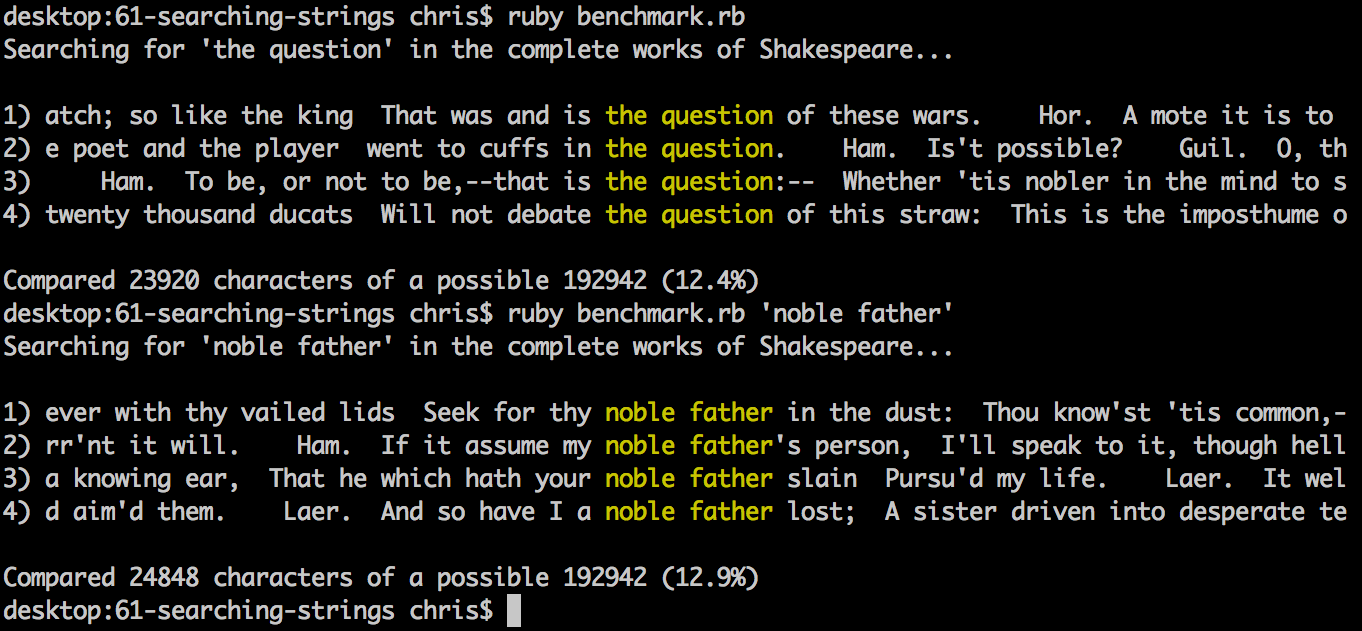
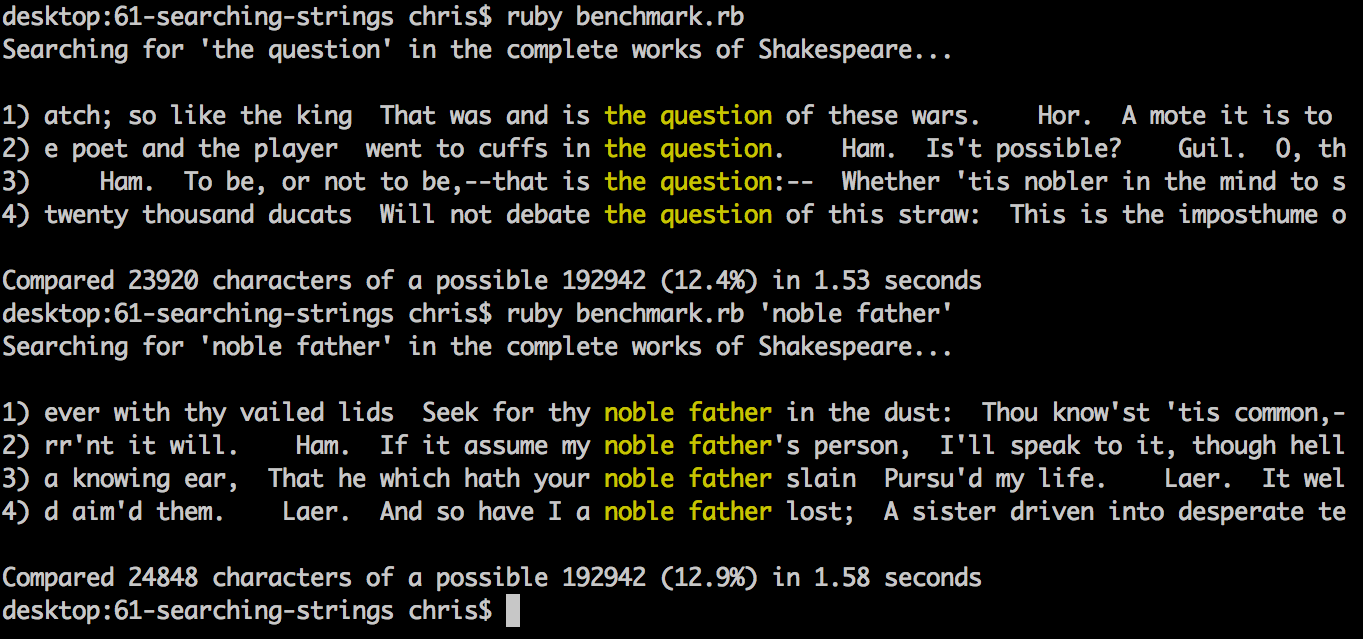
Add the time taken

diff --git a/61-searching-strings/benchmark.rb b/61-searching-strings/benchmark.rb
@@ -1,13 +1,18 @@
 $LOAD_PATH.unshift("lib")
 
 require "searching_strings"
+require "benchmark"
 
 shakespeare = File.read("shakespeare.text")
 pattern = ARGV.first || "the question"
 text = Text.new(shakespeare)
 
 puts "Searching for '#{pattern}' in the complete works of Shakespeare..."
-matches = BoyerMoore.search(text, pattern)
+matches = nil
+
+time_taken = Benchmark.realtime do
+  matches = BoyerMoore.search(text, pattern)
+end
 
 YELLOW = "\e[33m"
 RESET = "\e[0m"
@@ -23,4 +28,5 @@ end
 
 puts "No matches found." if matches.empty?
 print "\nCompared #{text.number_of_fetches} characters of a possible #{text.length}"
-puts " (#{(text.number_of_fetches.to_f / text.length * 100).round(1)}%)"
+print " (#{(text.number_of_fetches.to_f / text.length * 100).round(1)}%)"
+puts " in #{time_taken.round(2)} seconds"
